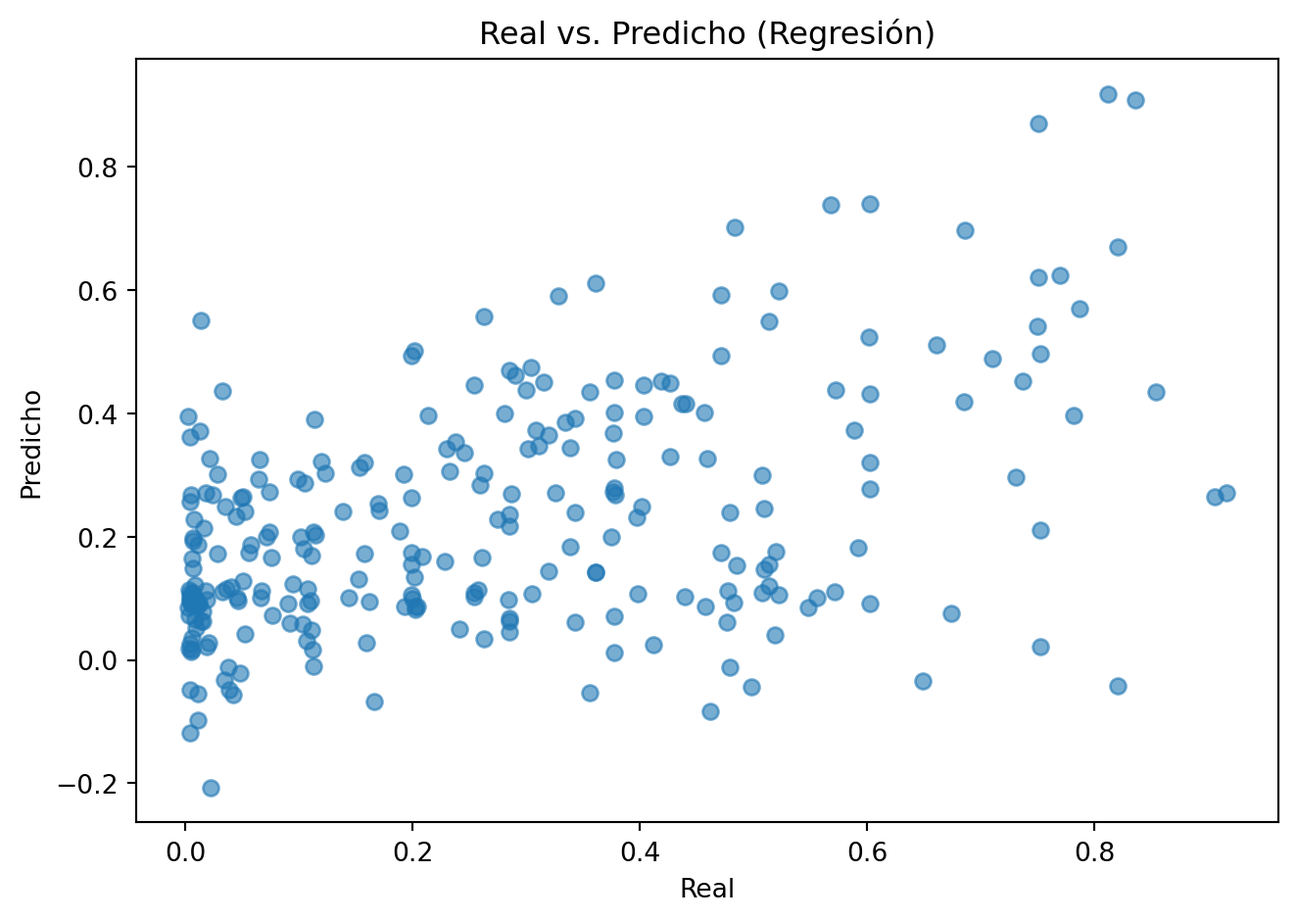
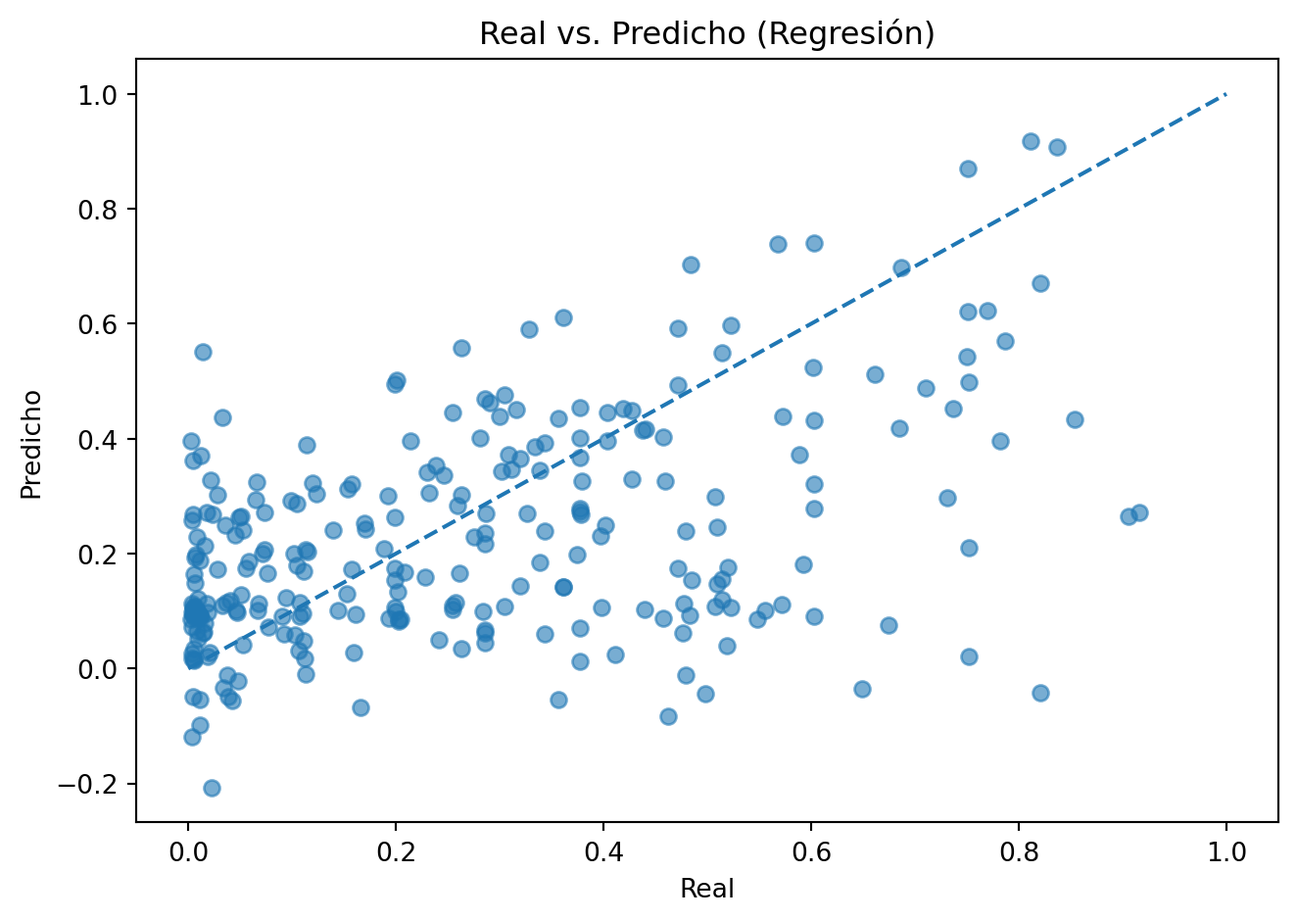
update_40

diff --git a/docs/Proyecto_final.html b/docs/Proyecto_final.html
@@ -210,7 +210,7 @@ pre > code.sourceCode > span > a:first-child::before { text-decoration: underlin
 
 <section id="preparación" class="level2" data-number="1">
 <h2 data-number="1" class="anchored" data-anchor-id="preparación"><span class="header-section-number">1</span> 0. Preparación</h2>
-<div id="3331bc3c" class="cell" data-execution_count="1">
+<div id="6e285cf4" class="cell" data-execution_count="1">
 <details class="code-fold">
 <summary>Code</summary>
 <div class="code-copy-outer-scaffold"><div class="sourceCode cell-code" id="cb1"><pre class="sourceCode python code-with-copy"><code class="sourceCode python"><span id="cb1-1"><a href="#cb1-1" aria-hidden="true" tabindex="-1"></a><span class="im">import</span> pandas <span class="im">as</span> pd</span>
@@ -231,12 +231,12 @@ pre > code.sourceCode > span > a:first-child::before { text-decoration: underlin
 <span id="cb1-16"><a href="#cb1-16" aria-hidden="true" tabindex="-1"></a>nltk.download(<span class="st">"stopwords"</span>, quiet<span class="op">=</span><span class="va">True</span>)</span>
 <span id="cb1-17"><a href="#cb1-17" aria-hidden="true" tabindex="-1"></a>stop_es <span class="op">=</span> stopwords.words(<span class="st">"spanish"</span>)</span>
 <span id="cb1-18"><a href="#cb1-18" aria-hidden="true" tabindex="-1"></a></span>
-<span id="cb1-19"><a href="#cb1-19" aria-hidden="true" tabindex="-1"></a><span class="im">from</span> sklearn.model_selection <span class="im">import</span> train_test_split</span>
+<span id="cb1-19"><a href="#cb1-19" aria-hidden="true" tabindex="-1"></a><span class="im">from</span> sklearn.model_selection <span class="im">import</span> train_test_split, GridSearchCV</span>
 <span id="cb1-20"><a href="#cb1-20" aria-hidden="true" tabindex="-1"></a><span class="im">from</span> sklearn.preprocessing <span class="im">import</span> OneHotEncoder, StandardScaler</span>
 <span id="cb1-21"><a href="#cb1-21" aria-hidden="true" tabindex="-1"></a><span class="im">from</span> sklearn.compose <span class="im">import</span> ColumnTransformer</span>
 <span id="cb1-22"><a href="#cb1-22" aria-hidden="true" tabindex="-1"></a><span class="im">from</span> sklearn.pipeline <span class="im">import</span> Pipeline</span>
 <span id="cb1-23"><a href="#cb1-23" aria-hidden="true" tabindex="-1"></a><span class="im">from</span> sklearn.feature_extraction.text <span class="im">import</span> TfidfVectorizer</span>
-<span id="cb1-24"><a href="#cb1-24" aria-hidden="true" tabindex="-1"></a><span class="im">from</span> sklearn.linear_model <span class="im">import</span> LogisticRegression, LinearRegression</span>
+<span id="cb1-24"><a href="#cb1-24" aria-hidden="true" tabindex="-1"></a><span class="im">from</span> sklearn.linear_model <span class="im">import</span> LogisticRegression, LinearRegression, Ridge</span>
 <span id="cb1-25"><a href="#cb1-25" aria-hidden="true" tabindex="-1"></a><span class="im">from</span> sklearn.ensemble <span class="im">import</span> RandomForestClassifier</span>
 <span id="cb1-26"><a href="#cb1-26" aria-hidden="true" tabindex="-1"></a><span class="im">from</span> sklearn.metrics <span class="im">import</span> (</span>
 <span id="cb1-27"><a href="#cb1-27" aria-hidden="true" tabindex="-1"></a>    accuracy_score, precision_score, recall_score, f1_score, roc_auc_score,</span>
@@ -413,7 +413,7 @@ pre > code.sourceCode > span > a:first-child::before { text-decoration: underlin
 </section>
 <section id="eda" class="level2" data-number="2">
 <h2 data-number="2" class="anchored" data-anchor-id="eda"><span class="header-section-number">2</span> 1. EDA</h2>
-<div id="b1513479" class="cell" data-execution_count="2">
+<div id="5ffe69fb" class="cell" data-execution_count="2">
 <details class="code-fold">
 <summary>Code</summary>
 <div class="code-copy-outer-scaffold"><div class="sourceCode cell-code" id="cb2"><pre class="sourceCode python code-with-copy"><code class="sourceCode python"><span id="cb2-1"><a href="#cb2-1" aria-hidden="true" tabindex="-1"></a>df.info()</span></code></pre></div><button title="Copy to Clipboard" class="code-copy-button"><i class="bi"></i></button></div>
@@ -455,7 +455,7 @@ dtypes: bool(3), float64(3), int64(9), object(12)
 memory usage: 285.8+ KB</code></pre>
 </div>
 </div>
-<div id="c66cc8d2" class="cell" data-execution_count="3">
+<div id="0c32f493" class="cell" data-execution_count="3">
 <details class="code-fold">
 <summary>Code</summary>
 <div class="code-copy-outer-scaffold"><div class="sourceCode cell-code" id="cb4"><pre class="sourceCode python code-with-copy"><code class="sourceCode python"><span id="cb4-1"><a href="#cb4-1" aria-hidden="true" tabindex="-1"></a><span class="co"># Detectar tipos de columnas</span></span>
@@ -518,7 +518,7 @@ Variables de texto (3): ['tweetUrl', 'content', 'authorProfilePic']</code></pre>
 </div>
 </div>
 </div>
-<div id="9d834e09" class="cell" data-execution_count="4">
+<div id="f41cc3e2" class="cell" data-execution_count="4">
 <details class="code-fold">
 <summary>Code</summary>
 <div class="code-copy-outer-scaffold"><div class="sourceCode cell-code" id="cb6"><pre class="sourceCode python code-with-copy"><code class="sourceCode python"><span id="cb6-1"><a href="#cb6-1" aria-hidden="true" tabindex="-1"></a><span class="co"># Resumen numérico</span></span>
@@ -681,7 +681,7 @@ Variables de texto (3): ['tweetUrl', 'content', 'authorProfilePic']</code></pre>
 </div>
 </div>
 </div>
-<div id="cda8c612" class="cell" data-execution_count="5">
+<div id="5a91738b" class="cell" data-execution_count="5">
 <details class="code-fold">
 <summary>Code</summary>
 <div class="code-copy-outer-scaffold"><div class="sourceCode cell-code" id="cb7"><pre class="sourceCode python code-with-copy"><code class="sourceCode python"><span id="cb7-1"><a href="#cb7-1" aria-hidden="true" tabindex="-1"></a>num_df <span class="op">=</span> df.select_dtypes(include<span class="op">=</span>[<span class="st">'number'</span>])</span>
@@ -704,7 +704,7 @@ Variables de texto (3): ['tweetUrl', 'content', 'authorProfilePic']</code></pre>
 </div>
 </div>
 </div>
-<div id="a1e1f9c3" class="cell" data-execution_count="6">
+<div id="f9136f94" class="cell" data-execution_count="6">
 <details class="code-fold">
 <summary>Code</summary>
 <div class="code-copy-outer-scaffold"><div class="sourceCode cell-code" id="cb9"><pre class="sourceCode python code-with-copy"><code class="sourceCode python"><span id="cb9-1"><a href="#cb9-1" aria-hidden="true" tabindex="-1"></a><span class="co"># Resumen categórico</span></span>
@@ -729,7 +729,7 @@ authorVerified            1
 dtype: int64</code></pre>
 </div>
 </div>
-<div id="bf33590f" class="cell" data-execution_count="7">
+<div id="b4d65ff2" class="cell" data-execution_count="7">
 <details class="code-fold">
 <summary>Code</summary>
 <div class="code-copy-outer-scaffold"><div class="sourceCode cell-code" id="cb11"><pre class="sourceCode python code-with-copy"><code class="sourceCode python"><span id="cb11-1"><a href="#cb11-1" aria-hidden="true" tabindex="-1"></a><span class="co"># Nulos y duplicados</span></span>
@@ -806,7 +806,7 @@ dtype: int64</code></pre>
 </div>
 </div>
 </div>
-<div id="2049cf50" class="cell" data-execution_count="8">
+<div id="d096d5d2" class="cell" data-execution_count="8">
 <details class="code-fold">
 <summary>Code</summary>
 <div class="code-copy-outer-scaffold"><div class="sourceCode cell-code" id="cb12"><pre class="sourceCode python code-with-copy"><code class="sourceCode python"><span id="cb12-1"><a href="#cb12-1" aria-hidden="true" tabindex="-1"></a><span class="co"># Distribución toxicity_score</span></span>
@@ -839,7 +839,7 @@ max         0.939145
 Name: toxicity_score, dtype: float64</code></pre>
 </div>
 </div>
-<div id="a1ec0252" class="cell" data-execution_count="9">
+<div id="33d2be5a" class="cell" data-execution_count="9">
 <details class="code-fold">
 <summary>Code</summary>
 <div class="code-copy-outer-scaffold"><div class="sourceCode cell-code" id="cb14"><pre class="sourceCode python code-with-copy"><code class="sourceCode python"><span id="cb14-1"><a href="#cb14-1" aria-hidden="true" tabindex="-1"></a>plt.figure(figsize<span class="op">=</span>(<span class="dv">10</span>,<span class="dv">4</span>))</span>
@@ -859,7 +859,7 @@ Name: toxicity_score, dtype: float64</code></pre>
 </div>
 </div>
 </div>
-<div id="7fffc017" class="cell" data-execution_count="10">
+<div id="a07a52e6" class="cell" data-execution_count="10">
 <details class="code-fold">
 <summary>Code</summary>
 <div class="code-copy-outer-scaffold"><div class="sourceCode cell-code" id="cb15"><pre class="sourceCode python code-with-copy"><code class="sourceCode python"><span id="cb15-1"><a href="#cb15-1" aria-hidden="true" tabindex="-1"></a><span class="co"># Boxplots de numéricas clave</span></span>
@@ -875,7 +875,7 @@ Name: toxicity_score, dtype: float64</code></pre>
 </div>
 </div>
 </div>
-<div id="d28e6445" class="cell" data-execution_count="11">
+<div id="0799e94f" class="cell" data-execution_count="11">
 <details class="code-fold">
 <summary>Code</summary>
 <div class="code-copy-outer-scaffold"><div class="sourceCode cell-code" id="cb16"><pre class="sourceCode python code-with-copy"><code class="sourceCode python"><span id="cb16-1"><a href="#cb16-1" aria-hidden="true" tabindex="-1"></a><span class="co"># Top hashtags y menciones</span></span>
@@ -1111,7 +1111,7 @@ Name: toxicity_score, dtype: float64</code></pre>
 </div>
 </div>
 </div>
-<div id="e107e944" class="cell" data-execution_count="12">
+<div id="2d925daa" class="cell" data-execution_count="12">
 <details class="code-fold">
 <summary>Code</summary>
 <div class="code-copy-outer-scaffold"><div class="sourceCode cell-code" id="cb17"><pre class="sourceCode python code-with-copy"><code class="sourceCode python"><span id="cb17-1"><a href="#cb17-1" aria-hidden="true" tabindex="-1"></a><span class="co"># Conteo de Variables categóricas</span></span>
@@ -1169,7 +1169,7 @@ Name: toxicity_score, dtype: float64</code></pre>
 </div>
 </div>
 </div>
-<div id="0958d6ac" class="cell" data-execution_count="13">
+<div id="19912040" class="cell" data-execution_count="13">
 <details class="code-fold">
 <summary>Code</summary>
 <div class="code-copy-outer-scaffold"><div class="sourceCode cell-code" id="cb18"><pre class="sourceCode python code-with-copy"><code class="sourceCode python"><span id="cb18-1"><a href="#cb18-1" aria-hidden="true" tabindex="-1"></a><span class="co"># Detectar variable de texto</span></span>
@@ -1287,7 +1287,7 @@ Name: toxicity_score, dtype: float64</code></pre>
 </div>
 </div>
 </div>
-<div id="17438599" class="cell" data-execution_count="14">
+<div id="ad101117" class="cell" data-execution_count="14">
 <details class="code-fold">
 <summary>Code</summary>
 <div class="code-copy-outer-scaffold"><div class="sourceCode cell-code" id="cb19"><pre class="sourceCode python code-with-copy"><code class="sourceCode python"><span id="cb19-1"><a href="#cb19-1" aria-hidden="true" tabindex="-1"></a><span class="co">#Correlación de las variables numéricas</span></span>
@@ -1332,7 +1332,7 @@ Name: toxicity_score, dtype: float64</code></pre>
 </div>
 </div>
 <p><strong>Hallazgos clave (EDA):</strong></p>
-<div id="1d6bbf38" class="cell" data-execution_count="15">
+<div id="9d2f53f7" class="cell" data-execution_count="15">
 <details class="code-fold">
 <summary>Code</summary>
 <div class="code-copy-outer-scaffold"><div class="sourceCode cell-code" id="cb21"><pre class="sourceCode python code-with-copy"><code class="sourceCode python"><span id="cb21-1"><a href="#cb21-1" aria-hidden="true" tabindex="-1"></a><span class="bu">print</span>(<span class="st">"DISTRIBUCIÓN DE LOS DATOS:"</span>)</span>
@@ -1368,7 +1368,7 @@ Concentración de polaridad y relación preliminar con la toxicidad.</code></pre
 </section>
 <section id="preprocesamiento-y-codificación" class="level2" data-number="3">
 <h2 data-number="3" class="anchored" data-anchor-id="preprocesamiento-y-codificación"><span class="header-section-number">3</span> 2. Preprocesamiento y codificación</h2>
-<div id="e05ee69e" class="cell" data-execution_count="16">
+<div id="584657d5" class="cell" data-execution_count="16">
 <details class="code-fold">
 <summary>Code</summary>
 <div class="code-copy-outer-scaffold"><div class="sourceCode cell-code" id="cb23"><pre class="sourceCode python code-with-copy"><code class="sourceCode python"><span id="cb23-1"><a href="#cb23-1" aria-hidden="true" tabindex="-1"></a>df_procesado <span class="op">=</span> df[[<span class="st">'content'</span>, <span class="st">'toxicity_score'</span>]].copy()</span>
@@ -1450,7 +1450,7 @@ Concentración de polaridad y relación preliminar con la toxicidad.</code></pre
 [1347 rows x 4 columns]</code></pre>
 </div>
 </div>
-<div id="dd7ee37b" class="cell" data-execution_count="17">
+<div id="fa7c7b7b" class="cell" data-execution_count="17">
 <details class="code-fold">
 <summary>Code</summary>
 <div class="code-copy-outer-scaffold"><div class="sourceCode cell-code" id="cb25"><pre class="sourceCode python code-with-copy"><code class="sourceCode python"><span id="cb25-1"><a href="#cb25-1" aria-hidden="true" tabindex="-1"></a>text_col <span class="op">=</span> <span class="st">"text_processed"</span></span>
@@ -2269,7 +2269,7 @@ document.querySelectorAll('.fa-regular.fa-copy').forEach(function(element) {
 </section>
 <section id="clasificación" class="level2" data-number="4">
 <h2 data-number="4" class="anchored" data-anchor-id="clasificación"><span class="header-section-number">4</span> 3. Clasificación</h2>
-<div id="67ca221a" class="cell" data-execution_count="18">
+<div id="9b07edf1" class="cell" data-execution_count="18">
 <details class="code-fold">
 <summary>Code</summary>
 <div class="code-copy-outer-scaffold"><div class="sourceCode cell-code" id="cb26"><pre class="sourceCode python code-with-copy"><code class="sourceCode python"><span id="cb26-1"><a href="#cb26-1" aria-hidden="true" tabindex="-1"></a><span class="co"># Candidatos de umbral </span></span>
@@ -2338,7 +2338,7 @@ Umbral sugerido por balance de clases (~20% positivos): 0.50</code></pre>
  'roc_auc': 0.7173873954868292}</code></pre>
 </div>
 </div>
-<div id="42a2dced" class="cell" data-execution_count="19">
+<div id="bfe44fa6" class="cell" data-execution_count="19">
 <details class="code-fold">
 <summary>Code</summary>
 <div class="code-copy-outer-scaffold"><div class="sourceCode cell-code" id="cb29"><pre class="sourceCode python code-with-copy"><code class="sourceCode python"><span id="cb29-1"><a href="#cb29-1" aria-hidden="true" tabindex="-1"></a><span class="co"># Target binario con umbral 0.5 solo para el split (estratificación estable)</span></span>
@@ -2408,7 +2408,7 @@ Umbral sugerido por balance de clases (~20% positivos): 0.50</code></pre>
 Métricas con umbral 0.5: {'threshold_usado': 0.5, 'accuracy': 0.8405797101449275, 'precision': 0.631578947368421, 'recall': 0.24489795918367346, 'f1': 0.35294117647058826, 'roc_auc': 0.7173873954868292}</code></pre>
 </div>
 </div>
-<div id="eeb098dc" class="cell" data-execution_count="20">
+<div id="e19b7f25" class="cell" data-execution_count="20">
 <details class="code-fold">
 <summary>Code</summary>
 <div class="code-copy-outer-scaffold"><div class="sourceCode cell-code" id="cb31"><pre class="sourceCode python code-with-copy"><code class="sourceCode python"><span id="cb31-1"><a href="#cb31-1" aria-hidden="true" tabindex="-1"></a>ConfusionMatrixDisplay.from_predictions(y_test, y_pred)</span>
@@ -2425,35 +2425,89 @@ Métricas con umbral 0.5: {'threshold_usado': 0.5, 'accuracy': 0.840579710144927
 </section>
 <section id="regresión" class="level2" data-number="5">
 <h2 data-number="5" class="anchored" data-anchor-id="regresión"><span class="header-section-number">5</span> 4. Regresión</h2>
-<div id="cbf3b1f9" class="cell" data-execution_count="21">
+<div id="835267ab" class="cell" data-execution_count="21">
 <details class="code-fold">
 <summary>Code</summary>
 <div class="code-copy-outer-scaffold"><div class="sourceCode cell-code" id="cb32"><pre class="sourceCode python code-with-copy"><code class="sourceCode python"><span id="cb32-1"><a href="#cb32-1" aria-hidden="true" tabindex="-1"></a>X_train_r, X_test_r, y_train_r, y_test_r <span class="op">=</span> train_test_split(X, y_cont, test_size<span class="op">=</span><span class="fl">0.2</span>, random_state<span class="op">=</span><span class="dv">42</span>)</span>
 <span id="cb32-2"><a href="#cb32-2" aria-hidden="true" tabindex="-1"></a></span>
-<span id="cb32-3"><a href="#cb32-3" aria-hidden="true" tabindex="-1"></a>pipe_reg <span class="op">=</span> Pipeline([(<span class="st">"preprocess"</span>, preprocessor), (<span class="st">"reg"</span>, LinearRegression())])</span>
-<span id="cb32-4"><a href="#cb32-4" aria-hidden="true" tabindex="-1"></a>pipe_reg.fit(X_train_r, y_train_r)</span>
-<span id="cb32-5"><a href="#cb32-5" aria-hidden="true" tabindex="-1"></a>y_pred_r <span class="op">=</span> pipe_reg.predict(X_test_r)</span>
-<span id="cb32-6"><a href="#cb32-6" aria-hidden="true" tabindex="-1"></a></span>
-<span id="cb32-7"><a href="#cb32-7" aria-hidden="true" tabindex="-1"></a>reg_metrics <span class="op">=</span> {</span>
-<span id="cb32-8"><a href="#cb32-8" aria-hidden="true" tabindex="-1"></a>    <span class="st">"MAE"</span>: mean_absolute_error(y_test_r, y_pred_r),</span>
-<span id="cb32-9"><a href="#cb32-9" aria-hidden="true" tabindex="-1"></a>    <span class="st">"RMSE"</span>: mean_squared_error(y_test_r, y_pred_r),</span>
-<span id="cb32-10"><a href="#cb32-10" aria-hidden="true" tabindex="-1"></a>    <span class="st">"R2"</span>: r2_score(y_test_r, y_pred_r),</span>
-<span id="cb32-11"><a href="#cb32-11" aria-hidden="true" tabindex="-1"></a>}</span>
-<span id="cb32-12"><a href="#cb32-12" aria-hidden="true" tabindex="-1"></a><span class="bu">print</span>(reg_metrics)</span></code></pre></div><button title="Copy to Clipboard" class="code-copy-button"><i class="bi"></i></button></div>
+<span id="cb32-3"><a href="#cb32-3" aria-hidden="true" tabindex="-1"></a><span class="co"># Baseline: LinearRegression</span></span>
+<span id="cb32-4"><a href="#cb32-4" aria-hidden="true" tabindex="-1"></a>pipe_reg_lr <span class="op">=</span> Pipeline([(<span class="st">"preprocess"</span>, preprocessor), (<span class="st">"reg"</span>, LinearRegression())])</span>
+<span id="cb32-5"><a href="#cb32-5" aria-hidden="true" tabindex="-1"></a>pipe_reg_lr.fit(X_train_r, y_train_r)</span>
+<span id="cb32-6"><a href="#cb32-6" aria-hidden="true" tabindex="-1"></a>y_pred_lr <span class="op">=</span> pipe_reg_lr.predict(X_test_r)</span>
+<span id="cb32-7"><a href="#cb32-7" aria-hidden="true" tabindex="-1"></a></span>
+<span id="cb32-8"><a href="#cb32-8" aria-hidden="true" tabindex="-1"></a>reg_metrics_lr <span class="op">=</span> {</span>
+<span id="cb32-9"><a href="#cb32-9" aria-hidden="true" tabindex="-1"></a>    <span class="st">"MAE"</span>: mean_absolute_error(y_test_r, y_pred_lr),</span>
+<span id="cb32-10"><a href="#cb32-10" aria-hidden="true" tabindex="-1"></a>    <span class="st">"RMSE"</span>: <span class="bu">float</span>(np.sqrt(mean_squared_error(y_test_r, y_pred_lr))),  <span class="co"># RMSE correcto</span></span>
+<span id="cb32-11"><a href="#cb32-11" aria-hidden="true" tabindex="-1"></a>    <span class="st">"R2"</span>: r2_score(y_test_r, y_pred_lr),</span>
+<span id="cb32-12"><a href="#cb32-12" aria-hidden="true" tabindex="-1"></a>}</span>
+<span id="cb32-13"><a href="#cb32-13" aria-hidden="true" tabindex="-1"></a><span class="bu">print</span>({<span class="st">"LinearRegression"</span>: reg_metrics_lr})</span>
+<span id="cb32-14"><a href="#cb32-14" aria-hidden="true" tabindex="-1"></a></span>
+<span id="cb32-15"><a href="#cb32-15" aria-hidden="true" tabindex="-1"></a><span class="co"># Mejora: Ridge con búsqueda simple de alpha (sin paralelismo para evitar TerminatedWorkerError)</span></span>
+<span id="cb32-16"><a href="#cb32-16" aria-hidden="true" tabindex="-1"></a>pipe_reg_ridge <span class="op">=</span> Pipeline([(<span class="st">"preprocess"</span>, preprocessor), (<span class="st">"reg"</span>, Ridge())])</span>
+<span id="cb32-17"><a href="#cb32-17" aria-hidden="true" tabindex="-1"></a>param_grid <span class="op">=</span> {<span class="st">"reg__alpha"</span>: [<span class="fl">0.1</span>, <span class="fl">1.0</span>, <span class="fl">3.0</span>, <span class="fl">10.0</span>]}</span>
+<span id="cb32-18"><a href="#cb32-18" aria-hidden="true" tabindex="-1"></a></span>
+<span id="cb32-19"><a href="#cb32-19" aria-hidden="true" tabindex="-1"></a><span class="cf">try</span>:</span>
+<span id="cb32-20"><a href="#cb32-20" aria-hidden="true" tabindex="-1"></a>    gs <span class="op">=</span> GridSearchCV(</span>
+<span id="cb32-21"><a href="#cb32-21" aria-hidden="true" tabindex="-1"></a>        pipe_reg_ridge,</span>
+<span id="cb32-22"><a href="#cb32-22" aria-hidden="true" tabindex="-1"></a>        param_grid<span class="op">=</span>param_grid,</span>
+<span id="cb32-23"><a href="#cb32-23" aria-hidden="true" tabindex="-1"></a>        scoring<span class="op">=</span><span class="st">"neg_mean_absolute_error"</span>,</span>
+<span id="cb32-24"><a href="#cb32-24" aria-hidden="true" tabindex="-1"></a>        cv<span class="op">=</span><span class="dv">3</span>,                <span class="co"># menos folds para reducir costo</span></span>
+<span id="cb32-25"><a href="#cb32-25" aria-hidden="true" tabindex="-1"></a>        n_jobs<span class="op">=</span><span class="dv">1</span>,            <span class="co"># sin paralelismo (evita TerminatedWorkerError)</span></span>
+<span id="cb32-26"><a href="#cb32-26" aria-hidden="true" tabindex="-1"></a>        pre_dispatch<span class="op">=</span><span class="st">"1*n_jobs"</span>,</span>
+<span id="cb32-27"><a href="#cb32-27" aria-hidden="true" tabindex="-1"></a>        verbose<span class="op">=</span><span class="dv">0</span></span>
+<span id="cb32-28"><a href="#cb32-28" aria-hidden="true" tabindex="-1"></a>    )</span>
+<span id="cb32-29"><a href="#cb32-29" aria-hidden="true" tabindex="-1"></a>    gs.fit(X_train_r, y_train_r)</span>
+<span id="cb32-30"><a href="#cb32-30" aria-hidden="true" tabindex="-1"></a>    y_pred_ridge <span class="op">=</span> gs.predict(X_test_r)</span>
+<span id="cb32-31"><a href="#cb32-31" aria-hidden="true" tabindex="-1"></a></span>
+<span id="cb32-32"><a href="#cb32-32" aria-hidden="true" tabindex="-1"></a>    reg_metrics_ridge <span class="op">=</span> {</span>
+<span id="cb32-33"><a href="#cb32-33" aria-hidden="true" tabindex="-1"></a>        <span class="st">"MAE"</span>: mean_absolute_error(y_test_r, y_pred_ridge),</span>
+<span id="cb32-34"><a href="#cb32-34" aria-hidden="true" tabindex="-1"></a>        <span class="st">"RMSE"</span>: <span class="bu">float</span>(np.sqrt(mean_squared_error(y_test_r, y_pred_ridge))),</span>
+<span id="cb32-35"><a href="#cb32-35" aria-hidden="true" tabindex="-1"></a>        <span class="st">"R2"</span>: r2_score(y_test_r, y_pred_ridge),</span>
+<span id="cb32-36"><a href="#cb32-36" aria-hidden="true" tabindex="-1"></a>    }</span>
+<span id="cb32-37"><a href="#cb32-37" aria-hidden="true" tabindex="-1"></a>    <span class="bu">print</span>({<span class="st">"Ridge"</span>: {<span class="st">"best_alpha"</span>: gs.best_params_[<span class="st">"reg__alpha"</span>], <span class="op">**</span>reg_metrics_ridge}})</span>
+<span id="cb32-38"><a href="#cb32-38" aria-hidden="true" tabindex="-1"></a></span>
+<span id="cb32-39"><a href="#cb32-39" aria-hidden="true" tabindex="-1"></a><span class="cf">except</span> <span class="pp">Exception</span> <span class="im">as</span> e:</span>
+<span id="cb32-40"><a href="#cb32-40" aria-hidden="true" tabindex="-1"></a>    <span class="bu">print</span>(<span class="ss">f"[Aviso] GridSearchCV falló: </span><span class="sc">{</span>e<span class="sc">}</span><span class="ch">\n</span><span class="ss">Se usará Ridge(alpha=1.0) sin CV."</span>)</span>
+<span id="cb32-41"><a href="#cb32-41" aria-hidden="true" tabindex="-1"></a>    pipe_reg_ridge <span class="op">=</span> Pipeline([(<span class="st">"preprocess"</span>, preprocessor), (<span class="st">"reg"</span>, Ridge(alpha<span class="op">=</span><span class="fl">1.0</span>))])</span>
+<span id="cb32-42"><a href="#cb32-42" aria-hidden="true" tabindex="-1"></a>    pipe_reg_ridge.fit(X_train_r, y_train_r)</span>
+<span id="cb32-43"><a href="#cb32-43" aria-hidden="true" tabindex="-1"></a>    y_pred_ridge <span class="op">=</span> pipe_reg_ridge.predict(X_test_r)</span>
+<span id="cb32-44"><a href="#cb32-44" aria-hidden="true" tabindex="-1"></a></span>
+<span id="cb32-45"><a href="#cb32-45" aria-hidden="true" tabindex="-1"></a>    reg_metrics_ridge <span class="op">=</span> {</span>
+<span id="cb32-46"><a href="#cb32-46" aria-hidden="true" tabindex="-1"></a>        <span class="st">"MAE"</span>: mean_absolute_error(y_test_r, y_pred_ridge),</span>
+<span id="cb32-47"><a href="#cb32-47" aria-hidden="true" tabindex="-1"></a>        <span class="st">"RMSE"</span>: <span class="bu">float</span>(np.sqrt(mean_squared_error(y_test_r, y_pred_ridge))),</span>
+<span id="cb32-48"><a href="#cb32-48" aria-hidden="true" tabindex="-1"></a>        <span class="st">"R2"</span>: r2_score(y_test_r, y_pred_ridge),</span>
+<span id="cb32-49"><a href="#cb32-49" aria-hidden="true" tabindex="-1"></a>    }</span>
+<span id="cb32-50"><a href="#cb32-50" aria-hidden="true" tabindex="-1"></a>    <span class="bu">print</span>({<span class="st">"Ridge"</span>: {<span class="st">"best_alpha"</span>: <span class="fl">1.0</span>, <span class="op">**</span>reg_metrics_ridge}})</span>
+<span id="cb32-51"><a href="#cb32-51" aria-hidden="true" tabindex="-1"></a></span>
+<span id="cb32-52"><a href="#cb32-52" aria-hidden="true" tabindex="-1"></a><span class="co"># Elegimos el mejor por RMSE (puedes cambiar a MAE o R2)</span></span>
+<span id="cb32-53"><a href="#cb32-53" aria-hidden="true" tabindex="-1"></a>best_name <span class="op">=</span> <span class="st">"Ridge"</span> <span class="cf">if</span> reg_metrics_ridge[<span class="st">"RMSE"</span>] <span class="op">&lt;</span> reg_metrics_lr[<span class="st">"RMSE"</span>] <span class="cf">else</span> <span class="st">"LinearRegression"</span></span>
+<span id="cb32-54"><a href="#cb32-54" aria-hidden="true" tabindex="-1"></a>y_pred_r <span class="op">=</span> y_pred_ridge <span class="cf">if</span> best_name <span class="op">==</span> <span class="st">"Ridge"</span> <span class="cf">else</span> y_pred_lr</span>
+<span id="cb32-55"><a href="#cb32-55" aria-hidden="true" tabindex="-1"></a><span class="bu">print</span>({<span class="st">"mejor_modelo"</span>: best_name})</span></code></pre></div><button title="Copy to Clipboard" class="code-copy-button"><i class="bi"></i></button></div>
 </details>
 <div class="cell-output cell-output-stdout">
-<pre><code>{'MAE': 0.16806338609617444, 'RMSE': 0.049797216940050744, 'R2': 0.12122430945578111}</code></pre>
+<pre><code>{'LinearRegression': {'MAE': 0.16806338609617444, 'RMSE': 0.22315290036217486, 'R2': 0.12122430945578111}}
+{'Ridge': {'best_alpha': 1.0, 'MAE': 0.16461513373133443, 'RMSE': 0.25858526503979606, 'R2': -0.17999593349732934}}
+{'mejor_modelo': 'LinearRegression'}</code></pre>
 </div>
 </div>
-<div id="0372376f" class="cell" data-execution_count="22">
+<div id="ec3cb4d6" class="cell" data-execution_count="22">
 <details class="code-fold">
 <summary>Code</summary>
-<div class="code-copy-outer-scaffold"><div class="sourceCode cell-code" id="cb34"><pre class="sourceCode python code-with-copy"><code class="sourceCode python"><span id="cb34-1"><a href="#cb34-1" aria-hidden="true" tabindex="-1"></a>plt.scatter(y_test_r, y_pred_r, alpha<span class="op">=</span><span class="fl">0.6</span>)</span>
-<span id="cb34-2"><a href="#cb34-2" aria-hidden="true" tabindex="-1"></a>plt.title(<span class="st">"Real vs. Predicho (Regresión)"</span>)<span class="op">;</span> plt.xlabel(<span class="st">"Real"</span>)<span class="op">;</span> plt.ylabel(<span class="st">"Predicho"</span>)<span class="op">;</span> plt.tight_layout()<span class="op">;</span> plt.show()</span>
-<span id="cb34-3"><a href="#cb34-3" aria-hidden="true" tabindex="-1"></a></span>
-<span id="cb34-4"><a href="#cb34-4" aria-hidden="true" tabindex="-1"></a>res <span class="op">=</span> y_test_r <span class="op">-</span> y_pred_r</span>
-<span id="cb34-5"><a href="#cb34-5" aria-hidden="true" tabindex="-1"></a>plt.scatter(y_pred_r, res, alpha<span class="op">=</span><span class="fl">0.6</span>)<span class="op">;</span> plt.axhline(<span class="dv">0</span>, linestyle<span class="op">=</span><span class="st">"--"</span>)</span>
-<span id="cb34-6"><a href="#cb34-6" aria-hidden="true" tabindex="-1"></a>plt.title(<span class="st">"Residuales vs. Predicción"</span>)<span class="op">;</span> plt.xlabel(<span class="st">"Predicción"</span>)<span class="op">;</span> plt.ylabel(<span class="st">"Residual"</span>)<span class="op">;</span> plt.tight_layout()<span class="op">;</span> plt.show()</span></code></pre></div><button title="Copy to Clipboard" class="code-copy-button"><i class="bi"></i></button></div>
+<div class="code-copy-outer-scaffold"><div class="sourceCode cell-code" id="cb34"><pre class="sourceCode python code-with-copy"><code class="sourceCode python"><span id="cb34-1"><a href="#cb34-1" aria-hidden="true" tabindex="-1"></a><span class="co"># Dispersión Real vs Predicho con línea ideal y=x</span></span>
+<span id="cb34-2"><a href="#cb34-2" aria-hidden="true" tabindex="-1"></a>plt.figure()</span>
+<span id="cb34-3"><a href="#cb34-3" aria-hidden="true" tabindex="-1"></a>plt.scatter(y_test_r, y_pred_r, alpha<span class="op">=</span><span class="fl">0.6</span>)</span>
+<span id="cb34-4"><a href="#cb34-4" aria-hidden="true" tabindex="-1"></a>xs <span class="op">=</span> np.linspace(<span class="dv">0</span>, <span class="dv">1</span>, <span class="dv">100</span>)</span>
+<span id="cb34-5"><a href="#cb34-5" aria-hidden="true" tabindex="-1"></a>plt.plot(xs, xs, linestyle<span class="op">=</span><span class="st">"--"</span>)  <span class="co"># línea ideal</span></span>
+<span id="cb34-6"><a href="#cb34-6" aria-hidden="true" tabindex="-1"></a>plt.title(<span class="st">"Real vs. Predicho (Regresión)"</span>)</span>
+<span id="cb34-7"><a href="#cb34-7" aria-hidden="true" tabindex="-1"></a>plt.xlabel(<span class="st">"Real"</span>)<span class="op">;</span> plt.ylabel(<span class="st">"Predicho"</span>)<span class="op">;</span> plt.tight_layout()<span class="op">;</span> plt.show()</span>
+<span id="cb34-8"><a href="#cb34-8" aria-hidden="true" tabindex="-1"></a></span>
+<span id="cb34-9"><a href="#cb34-9" aria-hidden="true" tabindex="-1"></a><span class="co"># Residuales</span></span>
+<span id="cb34-10"><a href="#cb34-10" aria-hidden="true" tabindex="-1"></a>res <span class="op">=</span> y_test_r <span class="op">-</span> y_pred_r</span>
+<span id="cb34-11"><a href="#cb34-11" aria-hidden="true" tabindex="-1"></a>plt.figure()</span>
+<span id="cb34-12"><a href="#cb34-12" aria-hidden="true" tabindex="-1"></a>plt.scatter(y_pred_r, res, alpha<span class="op">=</span><span class="fl">0.6</span>)</span>
+<span id="cb34-13"><a href="#cb34-13" aria-hidden="true" tabindex="-1"></a>plt.axhline(<span class="dv">0</span>, linestyle<span class="op">=</span><span class="st">"--"</span>)</span>
+<span id="cb34-14"><a href="#cb34-14" aria-hidden="true" tabindex="-1"></a>plt.title(<span class="st">"Residuales vs. Predicción"</span>)</span>
+<span id="cb34-15"><a href="#cb34-15" aria-hidden="true" tabindex="-1"></a>plt.xlabel(<span class="st">"Predicción"</span>)<span class="op">;</span> plt.ylabel(<span class="st">"Residual"</span>)<span class="op">;</span> plt.tight_layout()<span class="op">;</span> plt.show()</span></code></pre></div><button title="Copy to Clipboard" class="code-copy-button"><i class="bi"></i></button></div>
 </details>
 <div class="cell-output cell-output-display">
 <div>
@@ -2473,7 +2527,7 @@ Métricas con umbral 0.5: {'threshold_usado': 0.5, 'accuracy': 0.840579710144927
 </section>
 <section id="clustering" class="level2" data-number="6">
 <h2 data-number="6" class="anchored" data-anchor-id="clustering"><span class="header-section-number">6</span> 5. Clustering</h2>
-<div id="75a710cb" class="cell" data-execution_count="23">
+<div id="c3e524ca" class="cell" data-execution_count="23">
 <details class="code-fold">
 <summary>Code</summary>
 <div class="code-copy-outer-scaffold"><div class="sourceCode cell-code" id="cb35"><pre class="sourceCode python code-with-copy"><code class="sourceCode python"><span id="cb35-1"><a href="#cb35-1" aria-hidden="true" tabindex="-1"></a>num_cols_cluster <span class="op">=</span> [<span class="st">"authorFollowers"</span>, <span class="st">"account_age_days"</span>, <span class="st">"mentions_count"</span>, <span class="st">"hashtags_count"</span>, <span class="st">"content_length"</span>, <span class="st">"sentiment_polarity"</span>, <span class="st">"toxicity_score"</span>]</span>
@@ -2502,7 +2556,7 @@ Métricas con umbral 0.5: {'threshold_usado': 0.5, 'accuracy': 0.840579710144927
  0.9985810886175137)</code></pre>
 </div>
 </div>
-<div id="824cadd7" class="cell" data-execution_count="24">
+<div id="a00358cb" class="cell" data-execution_count="24">
 <details class="code-fold">
 <summary>Code</summary>
 <div class="code-copy-outer-scaffold"><div class="sourceCode cell-code" id="cb37"><pre class="sourceCode python code-with-copy"><code class="sourceCode python"><span id="cb37-1"><a href="#cb37-1" aria-hidden="true" tabindex="-1"></a>dfvis <span class="op">=</span> dfc.copy()</span>
